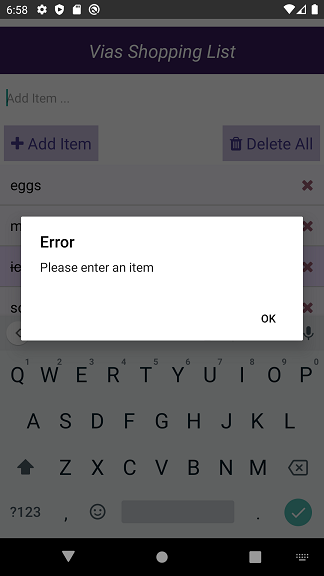
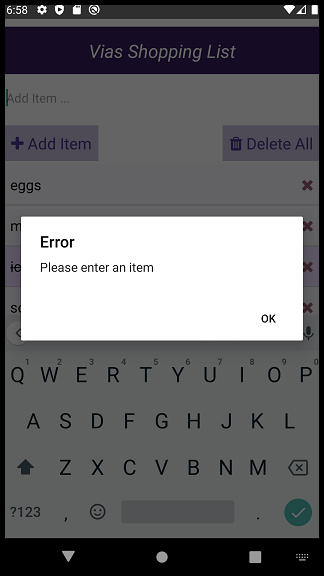
Added frame to the pictures

Changed region(s): [[0.0, 0.0, 1.0, 0.9375]]

diff --git a/README.md b/README.md
@@ -4,22 +4,23 @@ Vias Shopping List - is an application to keep track of your purchases. A User c
 Engoy the app!
 
 	
- # Instructions how to use Shopping List App: <br />
+ # Instructions how to use Shopping List App: 
+ <br />
 	
-__Step 1 - Start Application:__ <br />
+__Step 1 - Start Application:__ <br /><br />
 ![Alt](/Images/1.png "Title")
 
-__Step 2 - Try to add an empty item input:__ <br />
+__Step 2 - Try to add an empty item input:__ <br /><br />
 ![Alt](/Images/2.png "Title")
 
-__Step 3 - Type the name of item and click "Add Item" button:__<br />
+__Step 3 - Type the name of item and click "Add Item" button:__<br /><br />
 ![Alt](/Images/3.png "Title")
 
-__Step 4 - If you already put an item in your cart (at the store), but do not want to remove it from your list. Just tap on the item and it will be crossed out on your list.:__ <br />
+__Step 4 - If you already put an item in your cart (at the store), but do not want to remove it from your list. Just tap on the item and it will be crossed out on your list.:__ <br /><br />
 ![Alt](/Images/4.png "Title")
 
-__Step 5 - Now you decided to delete the item from your list. Click 'x' button on the right of the item.:__ <br />
+__Step 5 - Now you decided to delete the item from your list. Click 'x' button on the right of the item.:__ <br /><br />
 ![Alt](/Images/5.png "Title")
 
-__Step 6 - If you are done with your shopping and decide to clear your Shopping list, click "Delete All" button.:__ <br />
+__Step 6 - If you are done with your shopping and decide to clear your Shopping list, click "Delete All" button.:__ <br /><br />
 ![Alt](/Images/6.png "Title")
